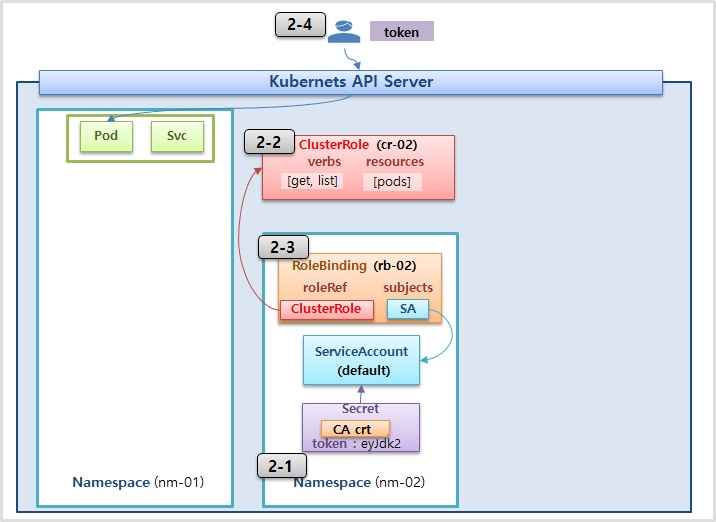
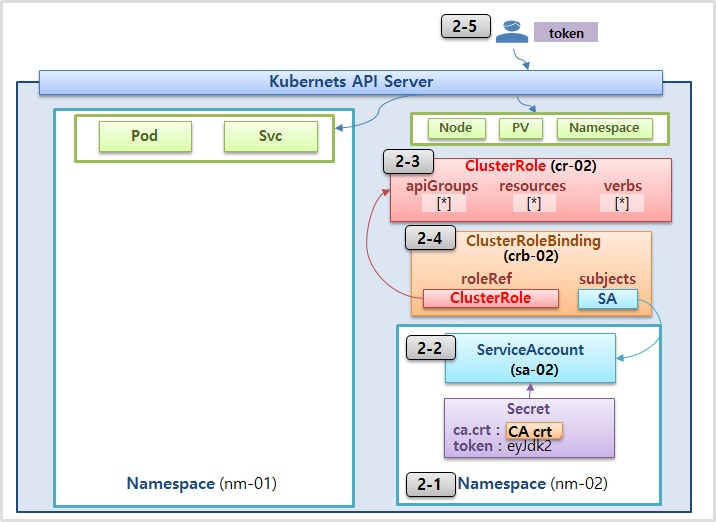
1

diff --git a/plan/2020_04/index.html b/plan/2020_04/index.html
@@ -33,7 +33,7 @@
 
 <meta itemprop="datePublished" content="2020-04-14T00:00:00&#43;00:00" />
 <meta itemprop="dateModified" content="2020-04-14T00:00:00&#43;00:00" />
-<meta itemprop="wordCount" content="219">
+<meta itemprop="wordCount" content="288">
 
 
 
@@ -245,11 +245,51 @@
   
     
 
+<h3 id="28일">-28일-</h3>
+
+<hr />
+
+<h4 id="중급편-accessing-api-overview">[중급편] Accessing API - Overview</h4>
+
+<h4 id="중급편-authorization-rbac-role-rolebinding">[중급편] Authorization - RBAC, Role, RoleBinding</h4>
+
+<h4 id="중급편-authentication-x509-certs-kubectl-serviceaccount">[중급편] Authentication - X509 Certs, Kubectl, ServiceAccount</h4>
+
+<h4 id="중급편-accessing-api-dashboard">[중급편] Accessing API - Dashboard</h4>
+
+<p><strong><code>PPT</code></strong> 100%  <strong><code>Blog</code></strong> 100%  <strong><code>Recording</code></strong> 50%</p>
+
+<ul>
+<li>이론 강의 녹음 완료</li>
+</ul>
+
+<p><br/></p>
+
+<h3 id="27일">-27일-</h3>
+
+<hr />
+
+<h4 id="중급편-accessing-api-overview-1">[중급편] Accessing API - Overview</h4>
+
+<h4 id="중급편-authorization-rbac-role-rolebinding-1">[중급편] Authorization - RBAC, Role, RoleBinding</h4>
+
+<h4 id="중급편-authentication-x509-certs-kubectl-serviceaccount-1">[중급편] Authentication - X509 Certs, Kubectl, ServiceAccount</h4>
+
+<h4 id="중급편-accessing-api-dashboard-1">[중급편] Accessing API - Dashboard</h4>
+
+<p><strong><code>PPT</code></strong> 100%  <strong><code>Blog</code></strong> 100%  <strong><code>Recording</code></strong> 30%</p>
+
+<ul>
+<li>이론 강의 설명 스크립트 작성</li>
+</ul>
+
+<p><br/></p>
+
 <h3 id="26일">-26일-</h3>
 
 <hr />
 
-<h4 id="중급편-accessing-api-dashboard">[중급편] Accessing API - Dashboard</h4>
+<h4 id="중급편-accessing-api-dashboard-2">[중급편] Accessing API - Dashboard</h4>
 
 <p><strong><code>PPT</code></strong> 100%  <strong><code>Blog</code></strong> 100%  <strong><code>Recording</code></strong> 0%</p>
 
@@ -263,7 +303,7 @@
 
 <hr />
 
-<h4 id="중급편-accessing-api-dashboard-1">[중급편] Accessing API - Dashboard</h4>
+<h4 id="중급편-accessing-api-dashboard-3">[중급편] Accessing API - Dashboard</h4>
 
 <p><strong><code>PPT</code></strong> 100%  <strong><code>Blog</code></strong> 0%  <strong><code>Recording</code></strong> 0%</p>
 
@@ -309,9 +349,9 @@
 
 <hr />
 
-<h4 id="중급편-authorization-rbac-role-rolebinding">[중급편] Authorization - RBAC, Role, RoleBinding</h4>
+<h4 id="중급편-authorization-rbac-role-rolebinding-2">[중급편] Authorization - RBAC, Role, RoleBinding</h4>
 
-<h4 id="중급편-authentication-x509-certs-kubectl-serviceaccount">[중급편] Authentication - X509 Certs, Kubectl, ServiceAccount</h4>
+<h4 id="중급편-authentication-x509-certs-kubectl-serviceaccount-2">[중급편] Authentication - X509 Certs, Kubectl, ServiceAccount</h4>
 
 <p><strong><code>PPT</code></strong> 100%  <strong><code>Blog</code></strong> 100%  <strong><code>Recording</code></strong> 0%</p>
 
@@ -325,7 +365,7 @@
 
 <hr />
 
-<h4 id="중급편-authorization-rbac-role-rolebinding-1">[중급편] Authorization - RBAC, Role, RoleBinding</h4>
+<h4 id="중급편-authorization-rbac-role-rolebinding-3">[중급편] Authorization - RBAC, Role, RoleBinding</h4>
 
 <p><strong><code>PPT</code></strong> 100%  <strong><code>Blog</code></strong> 0%  <strong><code>Recording</code></strong> 0%</p>
 
@@ -371,7 +411,7 @@
 
 <hr />
 
-<h4 id="중급편-authentication-x509-certs-kubectl-serviceaccount-1">[중급편] Authentication - X509 Certs, Kubectl, ServiceAccount</h4>
+<h4 id="중급편-authentication-x509-certs-kubectl-serviceaccount-3">[중급편] Authentication - X509 Certs, Kubectl, ServiceAccount</h4>
 
 <p><strong><code>PPT</code></strong> 100%  <strong><code>Blog</code></strong> 0%  <strong><code>Recording</code></strong> 0%</p>
 
@@ -417,7 +457,7 @@
 
 <hr />
 
-<h4 id="중급편-accessing-api-overview">[중급편] Accessing API - Overview</h4>
+<h4 id="중급편-accessing-api-overview-2">[중급편] Accessing API - Overview</h4>
 
 <p><strong><code>PPT</code></strong> 100%  <strong><code>Recording</code></strong> 0%</p>
 

diff --git a/practice/intermediate/object-authorization/index.html b/practice/intermediate/object-authorization/index.html
@@ -33,7 +33,7 @@
 
 <meta itemprop="datePublished" content="2020-04-24T00:00:00&#43;00:00" />
 <meta itemprop="dateModified" content="2020-04-24T00:00:00&#43;00:00" />
-<meta itemprop="wordCount" content="230">
+<meta itemprop="wordCount" content="155">
 
 
 
@@ -222,7 +222,7 @@
     </time>
     <span class="author">KubeTM</span>
     
-      <p>2 minutes read</p>
+      <p>1 minute read</p>
     
   </div>
 </header>
@@ -366,7 +366,7 @@ subjects:
 
 <hr />
 
-<h2 id="2-모든-namespace-내에-pod에-대해-조회만-할-수-있는-권한">2. 모든 Namespace 내에 Pod에 대해 조회만 할 수 있는 권한</h2>
+<h2 id="2-모든-namespace-내에-object들에-대해-모든-권한을-부여">2. 모든 Namespace 내에 Object들에 대해 모든 권한을 부여</h2>
 
 <hr />
 
@@ -410,133 +410,44 @@ metadata:
   name: nm-02
 </code></pre>
 
-<p><br/></p>
-
-<h3 id="2-2-clusterrole">2-2) ClusterRole</h3>
-
-<pre><code class="language-yaml">apiVersion: rbac.authorization.k8s.io/v1
-kind: ClusterRole
-metadata:
-  name: cr-02
-rules:
-- apiGroups: [&quot;&quot;]
-  verbs: [&quot;get&quot;, &quot;list&quot;]
-  resources: [&quot;pods&quot;]
-</code></pre>
-
-<p><br/></p>
-
-<h3 id="2-3-rolebinding">2-3) RoleBinding</h3>
-
-<pre><code class="language-yaml">apiVersion: rbac.authorization.k8s.io/v1
-kind: RoleBinding
-metadata:
-  name: rb-02
-  namespace: nm-02
-roleRef:
-  apiGroup: rbac.authorization.k8s.io
-  kind: ClusterRole
-  name: cr-02
-subjects:
-- kind: ServiceAccount
-  name: default
-  namespace: nm-02
-</code></pre>
-
-<h3 id="2-4-https-api-호출-token">2-4) Https API 호출 (Token)</h3>
-
-<p><code>header</code> Authorization : Bearer TOKEN</p>
-
-<pre><code class="language-sh">https://192.168.0.30:6443/api/v1/namespaces/nm-01/pods
-</code></pre>
-
-<p><br/>
-<br/></p>
-
-<hr />
-
-<h2 id="3-모든-namespace-내에-object들에-대해-모든-권한을-부여">3. 모든 Namespace 내에 Object들에 대해 모든 권한을 부여</h2>
-
-<hr />
-
-
-
-
-    
-    
-        
-        
-        
-        
-        
-    
-
-    
-    
-    
-    
-    
-    
-
-        
-    
-
-    
-        <span class="image left">
-        	
-            	<img src="/img/practice/intermediate/Access%20API%20with%20Authorization%20Role%20RoleBinding3%20for%20Kubernetes.jpg" alt="Access API with Authorization Role RoleBinding3 for Kubernetes" title="Access API with Authorization Role RoleBinding3 for Kubernetes"  >
-           	
-        </span>
-    
-
-
-
-<h3 id="3-1-namespaces">3-1) Namespaces</h3>
-
-<pre><code class="language-sh">apiVersion: v1
-kind: Namespace
-metadata:
-  name: nm-03
-</code></pre>
-
-<h3 id="3-2-serviceaccount">3-2) ServiceAccount</h3>
+<h3 id="2-2-serviceaccount">2-2) ServiceAccount</h3>
 
 <pre><code class="language-yaml">apiVersion: v1
 kind: ServiceAccount
 metadata:
-  name: sa-03
-  namespace: nm-03
+  name: sa-02
+  namespace: nm-02
 </code></pre>
 
-<h3 id="3-3-clusterrole">3-3) ClusterRole</h3>
+<h3 id="2-3-clusterrole">2-3) ClusterRole</h3>
 
 <pre><code class="language-yaml">apiVersion: rbac.authorization.k8s.io/v1
 kind: ClusterRole
 metadata:
-  name: cr-03
+  name: cr-02
 rules:
 - apiGroups: [&quot;*&quot;]
   verbs: [&quot;*&quot;]
   resources: [&quot;*&quot;]
 </code></pre>
 
-<h3 id="3-4-rolebinding">3-4) RoleBinding</h3>
+<h3 id="2-4-rolebinding">2-4) RoleBinding</h3>
 
 <pre><code class="language-yaml">apiVersion: rbac.authorization.k8s.io/v1
 kind: ClusterRoleBinding
 metadata:
-  name: rb-03
+  name: rb-02
 roleRef:
   apiGroup: rbac.authorization.k8s.io
   kind: ClusterRole
-  name: cr-03
+  name: cr-02
 subjects:
 - kind: ServiceAccount
   name: default
-  namespace: nm-03
+  namespace: nm-02
 </code></pre>
 
-<h3 id="3-5-https-api-호출-token">3-5) Https API 호출 (Token)</h3>
+<h3 id="2-5-https-api-호출-token">2-5) Https API 호출 (Token)</h3>
 
 <p><code>header</code> Authorization : Bearer TOKEN</p>
 

diff --git a/categories/강좌-계획/index.html b/categories/강좌-계획/index.html
@@ -227,7 +227,7 @@
   
 
   
-  <p><strong><code>PPT</code></strong> 100%  <strong><code>Blog</code></strong> 100%  <strong><code>Recording</code></strong> 0%</p>
+  <p><strong><code>PPT</code></strong> 100%  <strong><code>Blog</code></strong> 100%  <strong><code>Recording</code></strong> 50%</p>
   <footer>
     <a href="/plan/2020_04/" class="button big">본문 보기</a>
     

diff --git a/page/2/index.html b/page/2/index.html
@@ -226,7 +226,7 @@
   
 
   
-  <p><strong><code>PPT</code></strong> 100%  <strong><code>Blog</code></strong> 100%  <strong><code>Recording</code></strong> 0%</p>
+  <p><strong><code>PPT</code></strong> 100%  <strong><code>Blog</code></strong> 100%  <strong><code>Recording</code></strong> 50%</p>
   <footer>
     <a href="/plan/2020_04/" class="button big">본문 보기</a>
     

diff --git a/categories/인프런-중급편-강의자료/index.html b/categories/인프런-중급편-강의자료/index.html
@@ -299,7 +299,7 @@
     </time>
     <span class="author">KubeTM</span>
     
-      <p>2 minutes read</p>
+      <p>1 minute read</p>
     
   </div>
 </header>

diff --git a/index.html b/index.html
@@ -298,7 +298,7 @@
     </time>
     <span class="author">KubeTM</span>
     
-      <p>2 minutes read</p>
+      <p>1 minute read</p>
     
   </div>
 </header>
